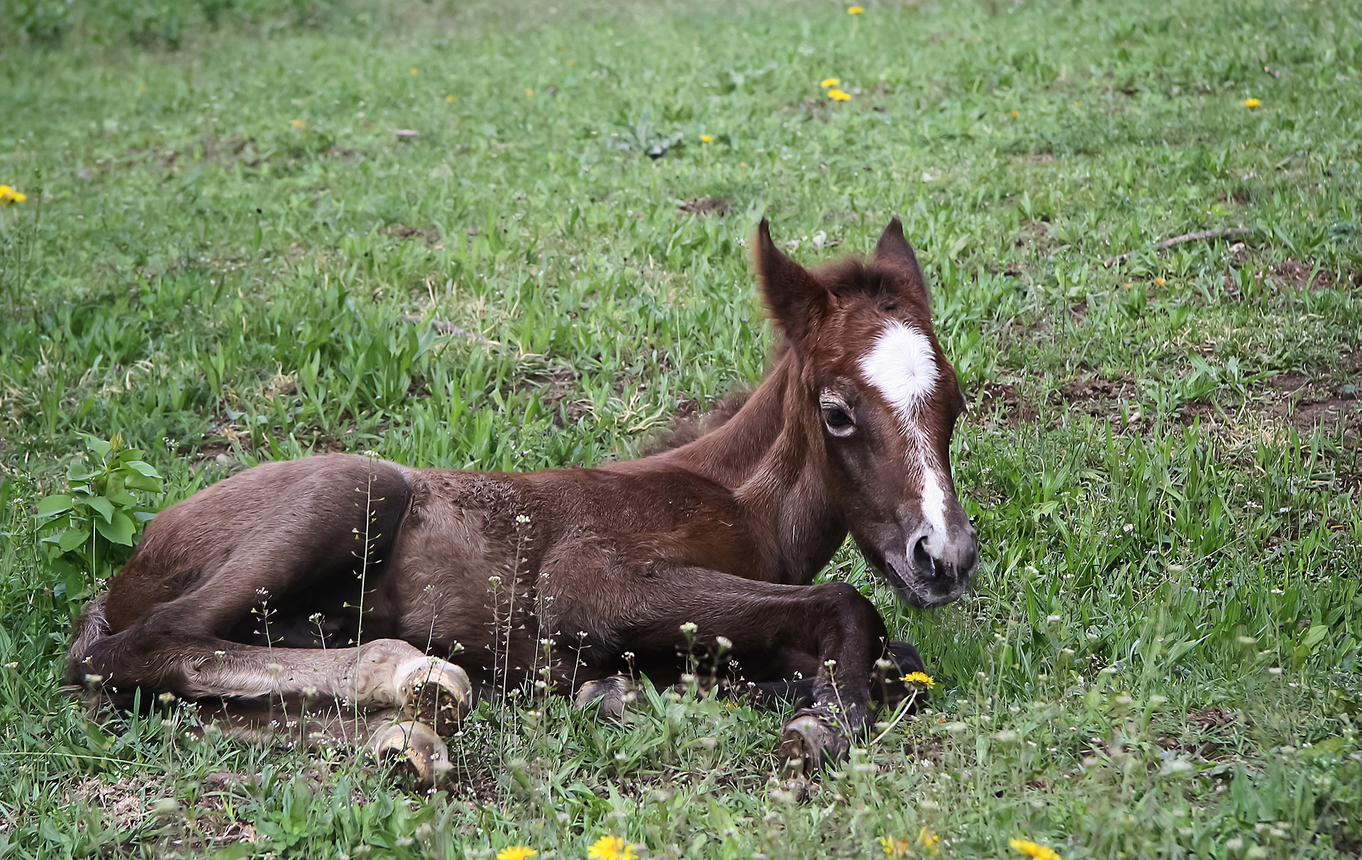
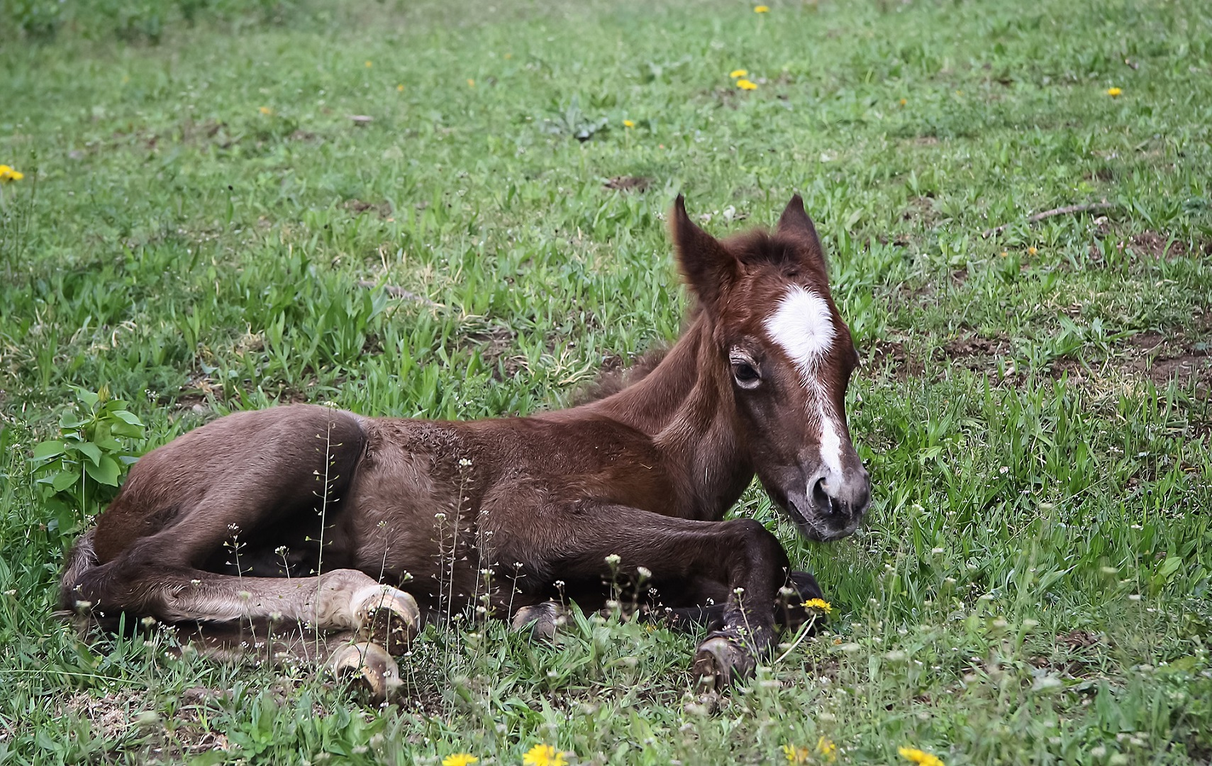
slider bootstrap + cookies

diff --git a/public/CSS/style.css b/public/CSS/style.css
@@ -65,9 +65,18 @@ footer .recommand-sites
 
 footer .logos
 {
+    display: flex;
+    height: 70px;
     padding-left: 20px;
     padding-bottom: 40px;
     padding-top: 10px;
+}
+
+footer .logo-30MA,
+footer .logo-spa
+{
+    height: 50px;
+    width: 50px;
 }
 
 footer .logo-spa
@@ -280,51 +289,13 @@ footer .logo-30MAmis:hover
 
 /* HOME PAGE */
 
-body, #slider, .wrap, .slide-content
+.carousel-item
 {
-    margin: 0;
-    padding: 0;
-    width: 100%;
     height: 100vh;
-}
-
-.wrap
-{
     position: relative;
 }
 
-.slide
-{
-    background-size: cover;
-    background-position: center;
-    background-repeat: no-repeat;
-}
-
-.slide1
-{
-    background-image: url('../images/pug.jpg');
-    background-position: 0 0.2px;
-}
-
-.slide2
-{
-    background-image: url('../images/cat.jpg');
-    background-position: 0 1px;
-}
-
-.slide3
-{
-    background-image: url('../images/foal.jpg');
-}
-
-.slide-content
-{
-    position: relative;
-    display: flex;
-    flex-direction: column;
-}
-
-.slide-content span
+.carousel-item span
 {
     position: absolute;
     width: 400px;
@@ -336,37 +307,14 @@ body, #slider, .wrap, .slide-content
     text-shadow: 3px 3px 2px #7f8c8d;
 }
 
-.slide2 span
+.carousel-item .span-cat
 {
     color: #7f8c8d;
 }
 
-.arrow
+.carousel-item img
 {
-    cursor: pointer;
-    position: absolute;
-    top: 50%;
-    margin-top: -35px;
-    width: 0;
-    height: 0;
-    border-style: solid;
-}
-
-#arrow-left
-{
-    z-index: 1000;
-    border-width: 20px 30px 20px 0;
-    border-color: transparent #fff transparent transparent;
-    left: 0;
-    margin-left: 30px;
-}
-
-#arrow-right
-{
-    border-width: 20px 0px 20px 30px;
-    border-color: transparent transparent transparent #fff;
-    right: 0;
-    margin-right: 30px;
+    object-fit: contain;
 }
 
 .homepage
@@ -374,6 +322,8 @@ body, #slider, .wrap, .slide-content
     display: flex;
     width: 100%;
     box-shadow: 0 4px 30px rgba(0, 0, 0, 0.05);
+    position: relative;
+    padding: 0;
 }
 
 .sidebox
@@ -410,6 +360,7 @@ body, #slider, .wrap, .slide-content
     margin-left: 20px;
     width: 70%;
     height: 100%;
+    padding-top: 20px;
 }
 
 .article-box .article
@@ -458,6 +409,14 @@ body, #slider, .wrap, .slide-content
 .btn-submit-contact
 {
     margin-top: 20px;
+}
+
+.message-cookie
+{
+    z-index: 10000;
+    position: absolute;
+    bottom: 0;
+    right: 0;
 }
 
 
@@ -845,6 +804,15 @@ ion-icon[name=heart-empty]
 {
     margin-bottom: 20px;
     margin-top: 20px;
+}
+
+
+/* FORUM POSTS PAGE (COMMENTS & RESPONSES) */
+/* Show */
+
+.member-not-exist
+{
+    font-style: italic;
 }
 
 

diff --git a/src/Controller/DefaultController.php b/src/Controller/DefaultController.php
@@ -3,6 +3,8 @@
 namespace App\Controller;
 
 use App\Form\ContactType;
+use App\Repository\PostsRepository;
+use App\Repository\MembersRepository;
 use App\Repository\ArticlesRepository;
 use Symfony\Component\HttpFoundation\Request;
 use Symfony\Component\HttpFoundation\Response;
@@ -19,8 +21,16 @@ class DefaultController extends AbstractController
     /**
      * @Route("/", name="accueil", methods="GET|POST")
      */
-    public function list(SessionInterface $session, ArticlesRepository $articlesRepository, Request $request): Response
+    public function list(SessionInterface $session, ArticlesRepository $articlesRepository, PostsRepository $postRepository,MembersRepository $memberRepository, Request $request): Response
     {
+        foreach($memberRepository->findBy(['statut' => 'delete']) as $member)
+        {
+            $postRepository->setNullById($member->getId());
+            $memberManager = $this->getDoctrine()->getManager();
+            $memberManager->remove($member);
+            $memberManager->flush();
+        }
+
         $form = $this->createForm(ContactType::class);
         $form->handleRequest($request);
 
@@ -57,6 +67,8 @@ class DefaultController extends AbstractController
      */
     public function mentionsLegales(): Response
     {
+        setcookie('cookie-bandeauCookie', 'myseconddata', time() + 32140800, "/");
+
         return $this->render('general/mentionslegales.html.twig', [
             'last_path' => 'mentionslegales'
         ]);

diff --git a/src/Controller/MembersController.php b/src/Controller/MembersController.php
@@ -159,20 +159,16 @@ class MembersController extends Controller implements EventSubscriberInterface
      * @Route("/{id}", name="member_delete", methods="DELETE")
      * @Security("is_granted('ROLE_USER')")
      */
-    public function delete(Request $request, Members $member, PostsRepository $postRepository, ArticlesRepository $articleRepository): Response
+    public function delete(Request $request, Members $member): Response
     {
         if ($this->isCsrfTokenValid('delete'.$member->getId(), $request->request->get('_token')))
         {
-
-            $this->session->invalidate();
-            $postRepository->setNullById($member->getId());
-            $articleRepository->setNullById($member->getId());
             $memberManager = $this->getDoctrine()->getManager();
-            $memberManager->remove($member);
+            $member->setStatut('delete');
             $memberManager->flush();
         }
 
-        return $this->redirectToRoute('accueil');
+        return $this->redirectToRoute('logout');
     }
 
     /**

diff --git a/src/Entity/Members.php b/src/Entity/Members.php
@@ -84,6 +84,11 @@ class Members implements UserInterface, EquatableInterface
      */
     private $locale;
 
+    /**
+     * @ORM\Column(type="string", length=50, nullable=true)
+     */
+    private $statut;
+
     public function __construct()
     {
         $this->posts = new ArrayCollection();
@@ -301,5 +306,17 @@ class Members implements UserInterface, EquatableInterface
             }
         }
         return true;
+    }
+
+    public function getStatut(): ?string
+    {
+        return $this->statut;
+    }
+
+    public function setStatut(?string $statut): self
+    {
+        $this->statut = $statut;
+
+        return $this;
     }
 }

diff --git a/src/Repository/ArticlesRepository.php b/src/Repository/ArticlesRepository.php
@@ -28,16 +28,6 @@ class ArticlesRepository extends ServiceEntityRepository
             ->getResult();
     }
 
-    public function setNullById($id)
-    {
-        return $this->createQueryBuilder('p')
-            ->update()
-            ->set('p.id_member_FK', 'NULL')
-            ->Where('p.id_member_FK = :id')
-            ->setParameter('id', $id)
-            ->getQuery()
-            ->getResult();
-    }
 
     // /**
     //  * @return Articles[] Returns an array of Articles objects
